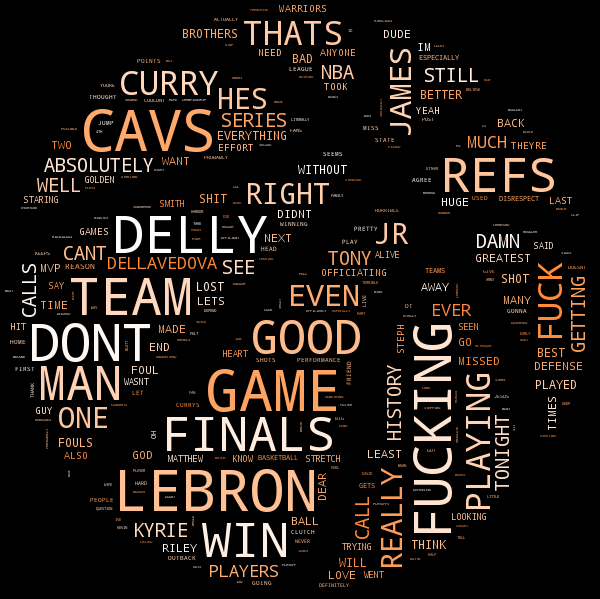
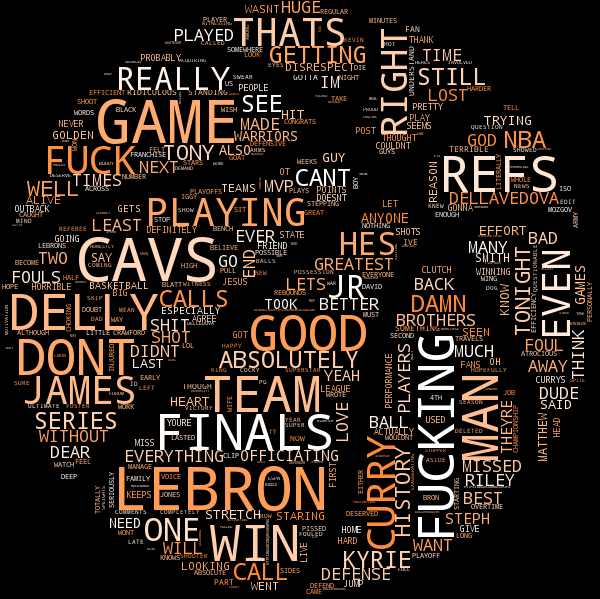
Generate new images 	modified:   build_world_clouds.py 	modified:   images/basketball_game_1.png 	modified:   images/basketball_game_2.png 	modified:   images/basketball_game_3.png 	modified:   images/basketball_game_4.png 	modified:   images/basketball_game_5.png 	modified:   images/basketball_game

Changed region(s): [[0.0, 0.0, 0.81, 0.8114], [0.15, 0.3306, 0.87, 0.9917], [0.69, 0.1803, 0.99, 0.7813]]

diff --git a/build_world_clouds.py b/build_world_clouds.py
@@ -37,7 +37,7 @@ for path in paths:
     png_filename = re.sub(r'game', 'basketball_game', png_filename)
     text = open(os.path.join(text_files, path)).read()
     # generate word cloud
-    wc = WordCloud(max_words=1000, mask=mask, margin=10,
+    wc = WordCloud(max_words=1000, mask=mask,
                random_state=1).generate(text)
     wc.recolor(color_func=orange_color_func, random_state=3)
     wc.to_file(os.path.join(images, png_filename))
